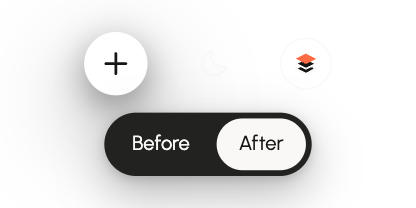
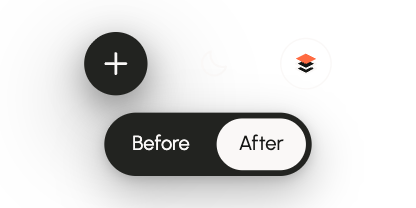
Theme raised controls and repair dark-mode artwork

Changed region(s): [[0.1875, 0.1442, 0.375, 0.4615]]

diff --git a/src/styles/walkthrough.css b/src/styles/walkthrough.css
@@ -20,7 +20,7 @@
 .wt-face { position: relative; }
 .wt-face img, .wt-face video { width: 100%; height: 100%; border-radius: inherit; object-fit: cover; object-position: 48% 40%; display: block; pointer-events: none; }
 /* The sound centre follows the radius arc at 45°; 21/36 retains its rest size. */
-.wt-sound { border-radius: var(--radius-full); position: absolute; right: calc(var(--wt-radius) * (1 - cos(45deg))); bottom: calc(var(--wt-radius) * (1 - cos(45deg))); z-index: var(--layer-content); transform-origin: 50% 50%; transform: translate(50%, 50%) scale(calc(21 / 36)); transition: right var(--duration-button-fill) var(--ease-button-fill), bottom var(--duration-button-fill) var(--ease-button-fill), transform var(--duration-button-fill) var(--ease-button-fill), opacity var(--duration-button-fill) var(--ease-button-fill); }
+.wt-sound { position: absolute; right: calc(var(--wt-radius) * (1 - cos(45deg))); bottom: calc(var(--wt-radius) * (1 - cos(45deg))); z-index: var(--layer-content); transform-origin: 50% 50%; transform: translate(50%, 50%) scale(calc(21 / 36)); transition: right var(--duration-button-fill) var(--ease-button-fill), bottom var(--duration-button-fill) var(--ease-button-fill), transform var(--duration-button-fill) var(--ease-button-fill), opacity var(--duration-button-fill) var(--ease-button-fill); }
 .wt-surface { position: relative; z-index: var(--layer-content); background: var(--color-bg-surface); box-shadow: var(--shadow-small); border-radius: var(--radius-medium); }
 @media (hover: hover) and (pointer: fine) {
 .wt[data-state="rest"]:not([data-quiet]):hover .wt-circle { --wt-radius: var(--radius-large); --wt-ring: var(--space-1); width: var(--wt-w); height: var(--wt-h); }
@@ -45,7 +45,7 @@
 /* Separate text lines sit directly on the recording, without a painted band. */
 .wt-video-text { position: absolute; z-index: var(--layer-content); left: 0; right: 0; padding-inline: var(--space-4); color: var(--color-white); text-align: center; text-shadow: var(--wt-text-shadow); white-space: nowrap; overflow: hidden; text-overflow: ellipsis; pointer-events: none; opacity: 0; visibility: hidden; transform: scale(.1); transition: opacity var(--duration-button-fill) var(--ease-button-fill), transform var(--duration-button-fill) var(--ease-button-fill), visibility calc(var(--duration-button-fill) * 0) var(--ease-button-fill) var(--duration-button-fill); }
 .wt-chapter { top: var(--space-1); }
-.wt-time { bottom: var(--space-1); color: color-mix(in srgb, var(--color-white) 80%, transparent); font-variant-numeric: tabular-nums; }
+.wt-time { bottom: var(--space-1); color: var(--color-white); font-variant-numeric: tabular-nums; }
 .wt:not([data-state="rest"]) .wt-video-text { opacity: 1; visibility: visible; transform: scale(1); transition-delay: calc(var(--duration-button-fill) * 0); }
 .wt-pill { display: none; align-items: center; gap: var(--space-1); padding: var(--space-1); border-radius: var(--radius-full); }
 .wt-invite-b, .wt-pill { position: absolute; z-index: var(--layer-base); opacity: 0; visibility: hidden; pointer-events: none; transform-origin: 50% 50%;

diff --git a/src/data/system-button.ts b/src/data/system-button.ts
@@ -14,7 +14,8 @@ export const buttonGroups=[
   {id:'toggle',name:'Toggle',description:'Two choices. The selected one is filled.',used:'Before / after images',value:'Small · 36px'},
  ]},
  {name:'Icon buttons',description:'A compact action with an icon only.',cards:[
-  {id:'raised',name:'Raised',description:'Floats over content on a white surface.',used:'Cursor, case close',value:'44px'},
+  {id:'raised',name:'Raised',description:'Floats over content and follows the theme.',used:'Cursor, case close, Walkthrough',value:'44px'},
+  {id:'raised-small',name:'Raised · small',description:'A small raised control on top of content.',used:'Walkthrough',value:'36px'},
   {id:'plain',name:'Plain',description:'Sits in the header with no surface.',used:'Theme switch, Walkthrough',value:'44px · 36px'},
   {id:'layers',name:'Secondary · small',description:'Outlined, for a small destination.',used:'Footer',value:'36px · 44px tap'},
   {id:'media',name:'Media',description:'Video controls on top of the video.',used:'Case-study videos',value:'44px'},
@@ -29,12 +30,12 @@ export const buttonGroups=[
 export type ButtonSpecimenId=typeof buttonGroups[number]['cards'][number]['id']|'close';
 export const buttonStateGroups=buttonGroups.map((group,index)=>({
  name:['Button states','Icon button states','Text link states'][index],
- cards:group.cards.filter(card=>!['small','outside','link-inline','primary-small-play'].includes(card.id)),
+ cards:group.cards.filter(card=>!['small','outside','link-inline','primary-small-play','raised-small'].includes(card.id)),
 }));
 export const buttonStates=['Default','Hover','Focus','Active'] as const;
 const componentDescriptions:Record<string,Record<string,string>>={
  Button:{href:'Link destination. Without it, renders a button.',variant:'Filled or outlined.',size:'48px or 36px tall, including primary with an arrow or play icon.',arrow:'Up adds the destination arrow; play starts a walkthrough with the shared play icon. On primary, the icon sits in the circle that fills the button.',download:'Downloads the file instead of opening it.',appearance:'Comparison makes a two-choice toggle. Pair it with aria-pressed.'},
- IconButton:{label:'Spoken name. There is no visible text.',icon:'Any icon from the Icons page.',href:'Link destination. Without it, renders a button.',variant:'Plain, outlined, or raised on a white surface over content.',size:'44px, or 36px with a 44px tap area.'},
+ IconButton:{label:'Spoken name. There is no visible text.',icon:'Any icon from the Icons page.',href:'Link destination. Without it, renders a button.',variant:'Plain, outlined, or raised over content with the current theme surface.',size:'44px, or 36px with a 44px tap area.'},
  TextLink:{href:'Destination. Outside links open in a new tab.',accent:'Orange label.',compact:'Keeps the arrow right after the text.',inline:'Underlined link inside a sentence.'},
 };
 export const buttonAccessibility=[

diff --git a/src/styles/global.css b/src/styles/global.css
@@ -127,7 +127,7 @@ picture:has(+ noscript > picture) > img[data-deferred-image], img[data-deferred-
 }
 .icon-button[data-magnet-ready='true'] { will-change: translate; }
 @media (hover: hover) and (pointer: fine) {
-.icon-button:not(.icon-button--secondary, .icon-button--raised):hover { background: var(--color-bg-surface-subtle); }
+.icon-button:not(.icon-button--secondary):hover { background: var(--color-bg-surface-subtle); }
 }
 .theme-moon, [data-theme='dark'] .theme-sun { display: none; }
 [data-theme='dark'] .theme-moon { display: block; }
@@ -584,9 +584,6 @@ html.case-study-open { overflow: hidden; scrollbar-gutter: stable; }
 
 
 /* Match the theme glyph: turn on hover and smoothly return when hover ends. */
-@media (hover: hover) and (pointer: fine) {
-.icon-button--raised:hover { background: var(--color-bg-surface); }
-}
 .icon-button--raised:focus-visible { background: var(--color-bg-surface); }
 .icon-button--raised[data-icon='close'] svg > g, [data-icon-hover='close'] svg > g { transform-box: fill-box; transform-origin: center; transform: rotate(0deg); }
 @media (hover: hover) and (pointer: fine) and (prefers-reduced-motion: no-preference) {
